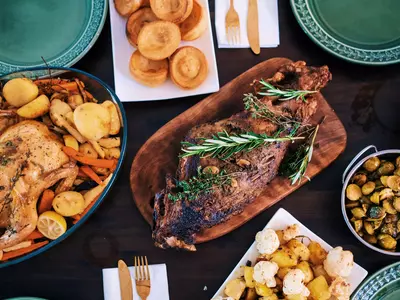
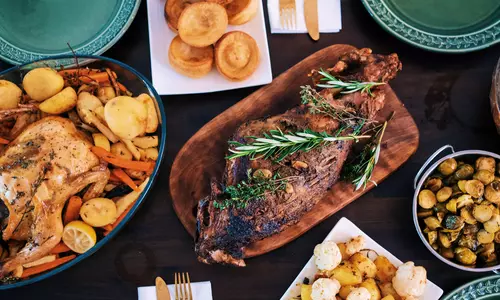
Change to a new image for the info- section
Increased the width to 500px because I decreased the
margin left and right of header-section to 200px.
I needed a wider image. Sits perfectly now.

I think it can call it a wrap on this project.

See you around. :-D

diff --git a/index.html b/index.html
@@ -8,7 +8,7 @@
     <title>Flex Box Landing Page</title>
 </head>
 <body>
-    <div class="header-section-background">
+    <div class="header-section-background" id="top">
             <div class="header-section">
                 <div class="header">
                     <h3>Feednotize Me</h3>
@@ -26,7 +26,7 @@
                         <p>Since 1970, Feednotize Me has 
                             been concerned with conjuring meals 
                             that has always left even the finest
-                            of connoisseurs aweing with wonder.
+                            of connoisseurs salivating with wonder.
                         </p>
                         <div class="booking-button">Book now</div>
                     </div>
@@ -54,13 +54,13 @@
                 </div>
                 <div class="card">
                     <img src="/images/chicken-inasal.webp" alt="chicken inasal">
-                    <div class="card-text"> Grilled Marinated Chicken dish of Ilonggo
+                    <div class="card-text"> Grilled Marinated Chicken dish of Ilonggo.
                     </div>
                 </div>
                 <div class="card">
                     <img src="/images/kumpir.webp" alt="kumpir">
-                    <div class="card-text"> Turkish-style baked 
-                        Potatoes with Butter and Cheese
+                    <div class="card-text"> Turkish baked 
+                        Potatoes with Butter and Cheese.
                     </div>
                 </div>
             </div>
@@ -77,7 +77,9 @@
     <div class="call-to-action">
         <div class="call-to-action-background">
             <div class="call-to-action-text">
-                <h3>Call to action! It's time!</h3>
+                <h3>Want to be informed when we 
+                    conjure some delicacy?
+                </h3>
                 <p>Join our newsletter by clicking
                     on the button.
                 </p>
@@ -86,7 +88,7 @@
         </div>
     </div>
     <div class="footer">
-        Made with ❤ by Feednotize Me. © Feednotize Me. 20Forever
+        Made with ❤ by Feednotize Me. © Feednotize Me. Two Thousand and Forever.
     </div>
     
 

diff --git a/style/style.css b/style/style.css
@@ -1,6 +1,6 @@
-* {
+/* * {
     border: 1px solid green;
-}
+} */
 
 body {
     font-family: system-ui, -apple-system, BlinkMacSystemFont, 'Segoe UI', Roboto, Oxygen, Ubuntu, Cantarell, 'Open Sans', 'Helvetica Neue', sans-serif;
@@ -8,6 +8,7 @@ body {
     margin: 0;
     display: flex;
     flex-direction: column;
+    scroll-behavior: smooth;
 }
 
 ul {
@@ -78,7 +79,7 @@ ul {
 }
 
 .info-image img {
-    max-width: 600px;
+    width: 500px;
     max-height: 300px;
 }
 
